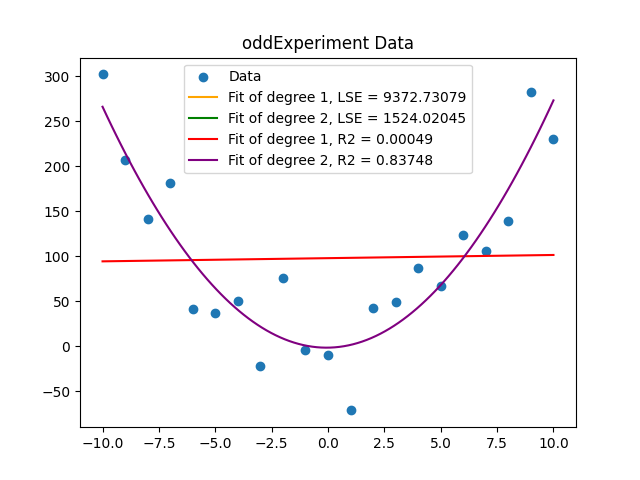
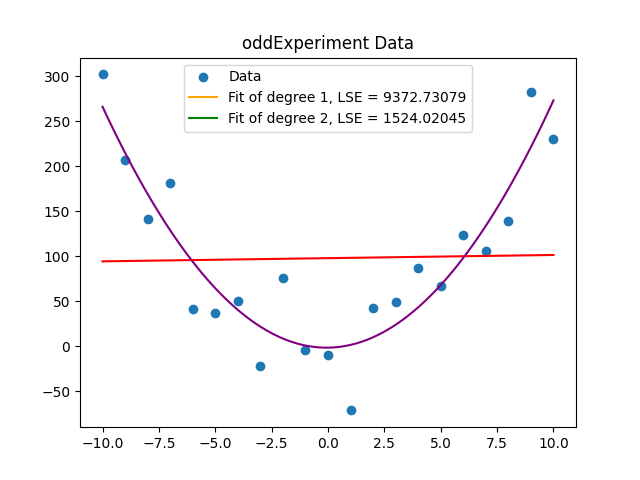
added comment

Changed region(s): [[0.2812, 0.25, 0.6875, 0.375]]

diff --git a/E94126169_Lab12/lab12_plus.py b/E94126169_Lab12/lab12_plus.py
@@ -2,6 +2,7 @@ import numpy as np
 import matplotlib.pyplot as plt
 import matplotlib.lines as mlines
 
+# 讀取檔案和過濾資料
 def read_data(filename):
     data_x = []
     data_y = []
@@ -16,6 +17,7 @@ def read_data(filename):
             data_y.append(y)
     return np.asarray(data_x), np.asarray(data_y)
 
+# 繪製散佈圖和設定標題、軸的文字
 def oddExperiment_scatter(data, ax):
     x_ticks = np.arange(-10.0, 10.1, 2.5)
     ax.set_title("oddExperiment Data")
@@ -26,54 +28,70 @@ def oddExperiment_scatter(data, ax):
     line = ax.scatter(x, y, label="Data")
     return line
 
+# 計算一次趨勢線的方程式, 並回傳
 def find_linear_trend_line_equation(data):
     x, y = data
     coefficients = np.polyfit(x, y, 1)
     return np.poly1d(coefficients)
 
+# 計算二次趨勢線的方程式, 並回傳
 def fine_square_trend_line_equation(data):
     x, y = data
     coefficients = np.polyfit(x, y, 2)
     return np.poly1d(coefficients)
 
+# 繪製一次趨勢線的圖形
 def trend_line_dg1(data, ax):
     x = np.linspace(-10.0, 10.0, 100)
     func = find_linear_trend_line_equation(data)
     y = func(x) 
     ax.plot(x, y, color="red")
 
+# 繪製二次趨勢線的圖形
 def trend_line_dg2(data, ax):
     x = np.linspace(-10.0, 10.0, 100)
     func = fine_square_trend_line_equation(data)
     y = func(x)
     ax.plot(x, y, color="purple")
 
+# 計算 LSE, 並且回傳數值
 def LSE_and_RSquare(data, equation):
     x_p, y_p = data
-    mean = np.mean(y_p)
     y_i = equation(x_p)
     diff_square = (y_i - y_p)**2
     LSE = np.mean(diff_square)
-    RSquare = 1 - (np.sum(diff_square)/np.sum((y_p-mean)**2))
-    return np.around(LSE, 5), np.around(RSquare, 5)
+    # mean = np.mean(y_p)
+    # RSquare = 1 - (np.sum(diff_square)/np.sum((y_p-mean)**2))
+    return np.around(LSE, 5)
 
-def calculate_and_set_legent(data, ax, line):
-    LSE1, R2_1 = LSE_and_RSquare(data, find_linear_trend_line_equation(data))
-    LSE2, R2_2 = LSE_and_RSquare(data, fine_square_trend_line_equation(data))
+# 計算 LSE 和設定 legend
+def calculate_and_set_legend(data, ax, line):
+    # 計算一次趨勢線的 LSE
+    LSE1 = LSE_and_RSquare(data, find_linear_trend_line_equation(data))
+    # 計算二次趨勢線的 LSE
+    LSE2 = LSE_and_RSquare(data, fine_square_trend_line_equation(data))
+    # 繪製 legend
     orange_line = mlines.Line2D([],[], color="orange", label=f"Fit of degree 1, LSE = {LSE1}")
     green_line = mlines.Line2D([],[], color="green", label=f"Fit of degree 2, LSE = {LSE2}")
-    red_line = mlines.Line2D([],[], color="red", label=f"Fit of degree 1, R2 = {R2_1}")
-    purple_line = mlines.Line2D([],[], color="purple", label=f"Fit of degree 2, R2 = {R2_2}")
-    text = [line, orange_line, green_line, red_line, purple_line]
+    # red_line = mlines.Line2D([],[], color="red", label=f"Fit of degree 1, R2 = {R2_1}")
+    # purple_line = mlines.Line2D([],[], color="purple", label=f"Fit of degree 2, R2 = {R2_2}")
+    text = [line, orange_line, green_line]
     ax.legend(handles=text, loc="upper center")
 
 def main():
+    # 進行資料處理
     data = read_data(filename="oddExperiment.txt")
+    # 創造子圖
     fig, ax = plt.subplots()
+    # 繪製散佈圖
     line = oddExperiment_scatter(data, ax)
+    # 繪製一次趨勢線
     trend_line_dg1(data, ax)
+    # 繪製二次趨勢線
     trend_line_dg2(data, ax)
-    calculate_and_set_legent(data,ax,line)
+    # 計算 LSE 和製作 legend
+    calculate_and_set_legend(data,ax,line)
+    # 儲存圖檔
     fig.savefig("lab12_plus.png")
     
 main()

diff --git a/E94126169_Lab12/lab12.py b/E94126169_Lab12/lab12.py
@@ -1,6 +1,7 @@
 import matplotlib.pyplot as plt
 import numpy as np
 
+# 讀取檔案並過濾資料
 def read_data(filename):
     data = []
     with open(filename) as file:
@@ -11,20 +12,25 @@ def read_data(filename):
         
     return data
 
+# 繪製圖表一, 每年各月的溫度折線圖
 def Monly_temperature_figure1(data, ax):
     month = np.linspace(1,12,12)
+
+    # 設定座標軸標題, 圖表標題, x軸刻度
     ax.set_xlabel("Month")
     ax.set_ylabel("Temperature in Degree C")
     ax.set_title("Tainan Monthly Mean Temperature From 2013 To 2021")
     ax.set_xticks(month)
     
 
+    # 繪製各年度的折線圖
     for i, year_temperature in enumerate(data):
         ax.plot(month, year_temperature, label=2013+i)
+
+    # 設定圖例
     ax.legend(loc="lower center")
     
-    
-
+# 計算各月的年平均溫度數值    
 def the_average_temperature_each_month(data):
     months_average = np.linspace(0,0,12)
     for arr in data:
@@ -34,8 +40,11 @@ def the_average_temperature_each_month(data):
     nine_years_mean = np.mean(months_average)
     return np.around(months_average, 2), np.around(nine_years_mean, 2)
       
+# 繪製圖表二, 各月的年平均溫度
 def Monly_temperature_figure2(data, ax):
     month = np.linspace(1,12,12)
+
+    # 設定坐標軸標題, 圖表標題, x軸刻度, y軸刻度的上下限
     ax.set_xlabel("Month")
     ax.set_ylabel("Temperature in Degree C")
     ax.set_title("Tainan Monthly Mean Temperature From 2013 To 2021")
@@ -44,11 +53,15 @@ def Monly_temperature_figure2(data, ax):
 
     months_average, total_average = the_average_temperature_each_month(data)
 
+    # 繪製折線圖和散佈圖
     ax.plot(month, months_average)
     ax.scatter(month, months_average, color="red")
+
+    # 標記數值
     for i, label in enumerate(months_average):
         ax.text(month[i], months_average[i], label)
     
+    # 繪製各月平均溫度水平線
     ax.axhline(total_average, color="red", linestyle="--", label="Mean of 9 Years")
     ax.text(1,25,total_average)
     ax.legend()
@@ -58,7 +71,6 @@ def Monly_temperature_figure2(data, ax):
     
 def main():
     data = read_data(filename="Temperature.txt")
-    # fig, ax = plt.subplots()
     fig, ax = plt.subplots(1,2, figsize=(15,6))
     Monly_temperature_figure1(data, ax[0])
     Monly_temperature_figure2(data, ax[1])
